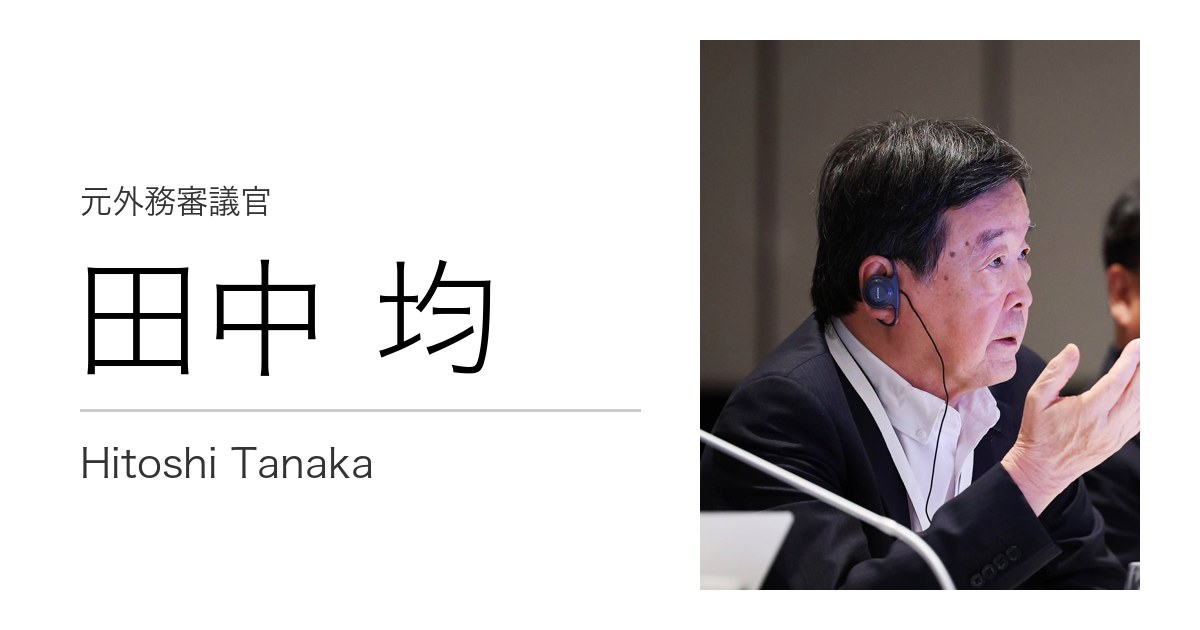
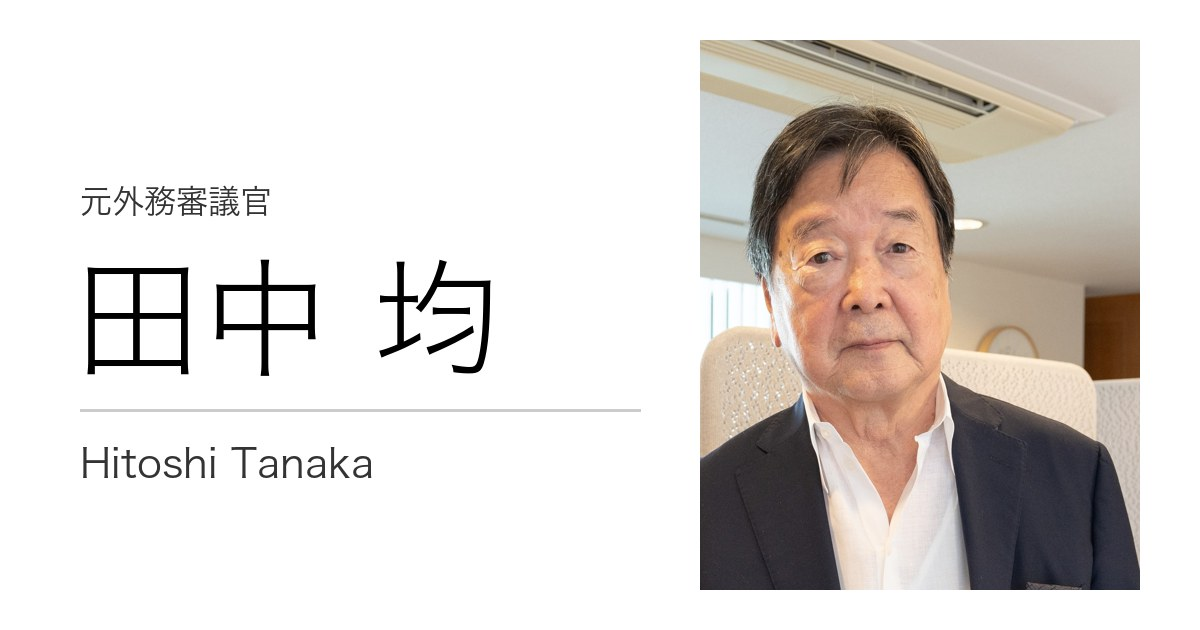
写真を田中さんだけの切り抜きに替え、連載・発信に電気新聞・日刊工業新聞を足した（由香里さんの No 3、11/20）
Claude-Session: https://claude.ai/code/session_01TTopKNLhekpDL6oXQfTVP9

Changed region(s): [[0.5858, 0.0603, 0.9558, 0.9349]]

diff --git a/profile/index.html b/profile/index.html
@@ -44,7 +44,7 @@
 <ul class="plain"><li><a href="https://www.iwanami.co.jp/book/b10146257.html" target="_blank" rel="noopener">『タブーを破った外交官 田中均回顧録』</a><small>岩波書店／2025年10月</small></li><li><a href="http://www.chuko.co.jp/laclef/2019/11/150671.html" target="_blank" rel="noopener">『見えない戦争 インビジブル・ウォー』</a><small>中公新書ラクレ／2019年11月</small></li><li>『日本外交の挑戦』<small>角川新書／2015年8月</small></li><li>『プロフェッショナルの交渉力』<small>講談社／2009年3月</small></li><li>『外交の力』<small>日本経済新聞出版社／2009年1月</small></li><li>『国家と外交』<small>講談社／2005年11月</small></li></ul>
 <a class="more" href="/books/">書籍の一覧</a>
 <h2 class="bar">連載・発信</h2>
-<ul class="links"><li><b>YouTube</b><a href="https://www.youtube.com/@tanakadiplomat" target="_blank" rel="noopener">田中均の国際政治塾（@tanakadiplomat）</a></li><li><b>X</b><a href="https://x.com/tanakadiplomat" target="_blank" rel="noopener">@TanakaDiplomat</a></li><li><b>East Asia Insights</b><a href="https://www.jcie.org/analysis/east-asia-insights/" target="_blank" rel="noopener">公益財団法人 日本国際交流センター（JCIE）の英文ニュースレター</a></li><li><b>ダイヤモンド・オンライン</b><a href="https://diamond.jp/category/s-international" target="_blank" rel="noopener">田中均の「世界を見る眼」</a></li><li><b>毎日新聞 政治プレミア</b><a href="https://mainichi.jp/premier/politics/%E7%94%B0%E4%B8%AD%E5%9D%87/" target="_blank" rel="noopener">田中均の寄稿一覧</a></li></ul>
+<ul class="links"><li><b>YouTube</b><a href="https://www.youtube.com/@tanakadiplomat" target="_blank" rel="noopener">田中均の国際政治塾（@tanakadiplomat）</a></li><li><b>X</b><a href="https://x.com/tanakadiplomat" target="_blank" rel="noopener">@TanakaDiplomat</a></li><li><b>East Asia Insights</b><a href="https://www.jcie.org/analysis/east-asia-insights/" target="_blank" rel="noopener">公益財団法人 日本国際交流センター（JCIE）の英文ニュースレター</a></li><li><b>ダイヤモンド・オンライン</b><a href="https://diamond.jp/category/s-international" target="_blank" rel="noopener">田中均の「世界を見る眼」</a></li><li><b>電気新聞</b><a href="https://www.denkishimbun.com/" target="_blank" rel="noopener">ウェーブ時評</a></li><li><b>日刊工業新聞</b><a href="https://www.nikkan.co.jp/" target="_blank" rel="noopener">グローバルスコープ</a></li><li><b>毎日新聞 政治プレミア</b><a href="https://mainichi.jp/premier/politics/%E7%94%B0%E4%B8%AD%E5%9D%87/" target="_blank" rel="noopener">田中均の寄稿一覧</a></li></ul>
 </div>
 
 </main>

diff --git a/index.html b/index.html
@@ -69,7 +69,7 @@
 
 <section class="sec">
 <h2 class="uh">連載・発信</h2>
-<ul class="links"><li><b>YouTube</b><a href="https://www.youtube.com/@tanakadiplomat" target="_blank" rel="noopener">田中均の国際政治塾（@tanakadiplomat）</a></li><li><b>X</b><a href="https://x.com/tanakadiplomat" target="_blank" rel="noopener">@TanakaDiplomat</a></li><li><b>East Asia Insights</b><a href="https://www.jcie.org/analysis/east-asia-insights/" target="_blank" rel="noopener">公益財団法人 日本国際交流センター（JCIE）の英文ニュースレター</a></li><li><b>ダイヤモンド・オンライン</b><a href="https://diamond.jp/category/s-international" target="_blank" rel="noopener">田中均の「世界を見る眼」</a></li><li><b>毎日新聞 政治プレミア</b><a href="https://mainichi.jp/premier/politics/%E7%94%B0%E4%B8%AD%E5%9D%87/" target="_blank" rel="noopener">田中均の寄稿一覧</a></li></ul>
+<ul class="links"><li><b>YouTube</b><a href="https://www.youtube.com/@tanakadiplomat" target="_blank" rel="noopener">田中均の国際政治塾（@tanakadiplomat）</a></li><li><b>X</b><a href="https://x.com/tanakadiplomat" target="_blank" rel="noopener">@TanakaDiplomat</a></li><li><b>East Asia Insights</b><a href="https://www.jcie.org/analysis/east-asia-insights/" target="_blank" rel="noopener">公益財団法人 日本国際交流センター（JCIE）の英文ニュースレター</a></li><li><b>ダイヤモンド・オンライン</b><a href="https://diamond.jp/category/s-international" target="_blank" rel="noopener">田中均の「世界を見る眼」</a></li><li><b>電気新聞</b><a href="https://www.denkishimbun.com/" target="_blank" rel="noopener">ウェーブ時評</a></li><li><b>日刊工業新聞</b><a href="https://www.nikkan.co.jp/" target="_blank" rel="noopener">グローバルスコープ</a></li><li><b>毎日新聞 政治プレミア</b><a href="https://mainichi.jp/premier/politics/%E7%94%B0%E4%B8%AD%E5%9D%87/" target="_blank" rel="noopener">田中均の寄稿一覧</a></li></ul>
 </section>
 
 <section class="sec">
